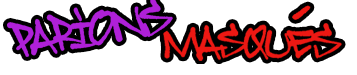
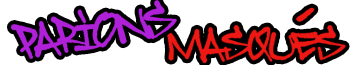
Mise en place 2 images

diff --git a/src/screens/App/App.js b/src/screens/App/App.js
@@ -17,6 +17,7 @@ import Toolbar from '@material-ui/core/Toolbar'
 // import Typography from '@material-ui/core/Typography'
 import MenuIcon from '@material-ui/icons/Menu'
 import PropTypes from 'prop-types'
+import Baniere_mobile from '../../assets/visuels/baniere_pm.png'
 import Baniere from '../../assets/visuels/bandeausignature.png'
 import React, { Suspense, useState } from 'react'
 import { Route, Switch } from 'react-router-dom'
@@ -128,7 +129,8 @@ const App = () => {
             <MenuIcon />
           </IconButton>
           <div className="app-toolbar-title">
-            <img src={Baniere} alt="Baniere" />
+            <img id="imgDesktop" src={Baniere} alt="Baniere" />
+            <img id="imgMobile" src={Baniere_mobile} alt="Baniere" />
           </div>
           <Suspense fallback={null}>
             <ConnectionWidget />

diff --git a/src/screens/App/App.scss b/src/screens/App/App.scss
@@ -8,7 +8,24 @@
 }
 
 .app-toolbar-title {
-  @media screen and (max-width: 949px) {
+  #imgMobile {
     display: none;
+  }
+  #imgDesktop {
+    display: block;
+  }
+
+  @media all and (max-width: 949px) {
+    #imgMobile {
+      display: block;
+    }
+    #imgDesktop {
+      display: none;
+    }
+  }
+  @media all and (max-width: 669px) {
+    #imgMobile {
+      display: none;
+    }
   }
 }
